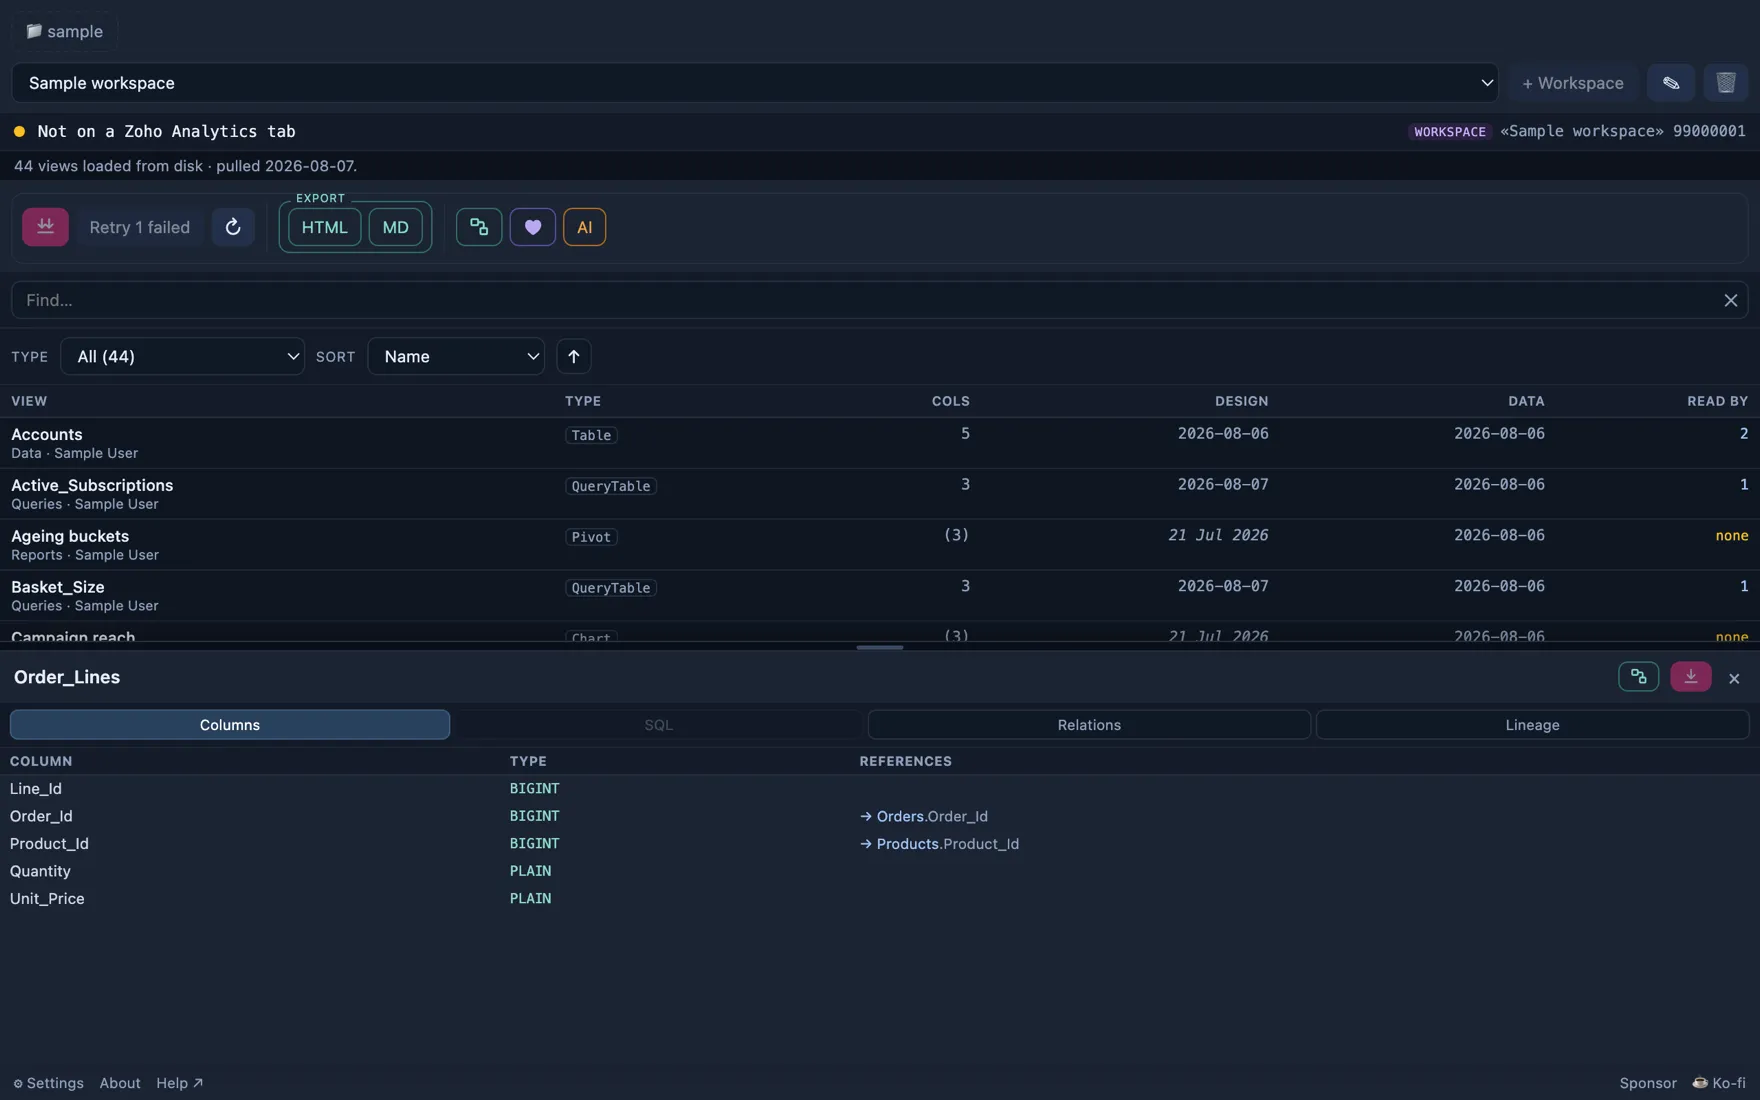
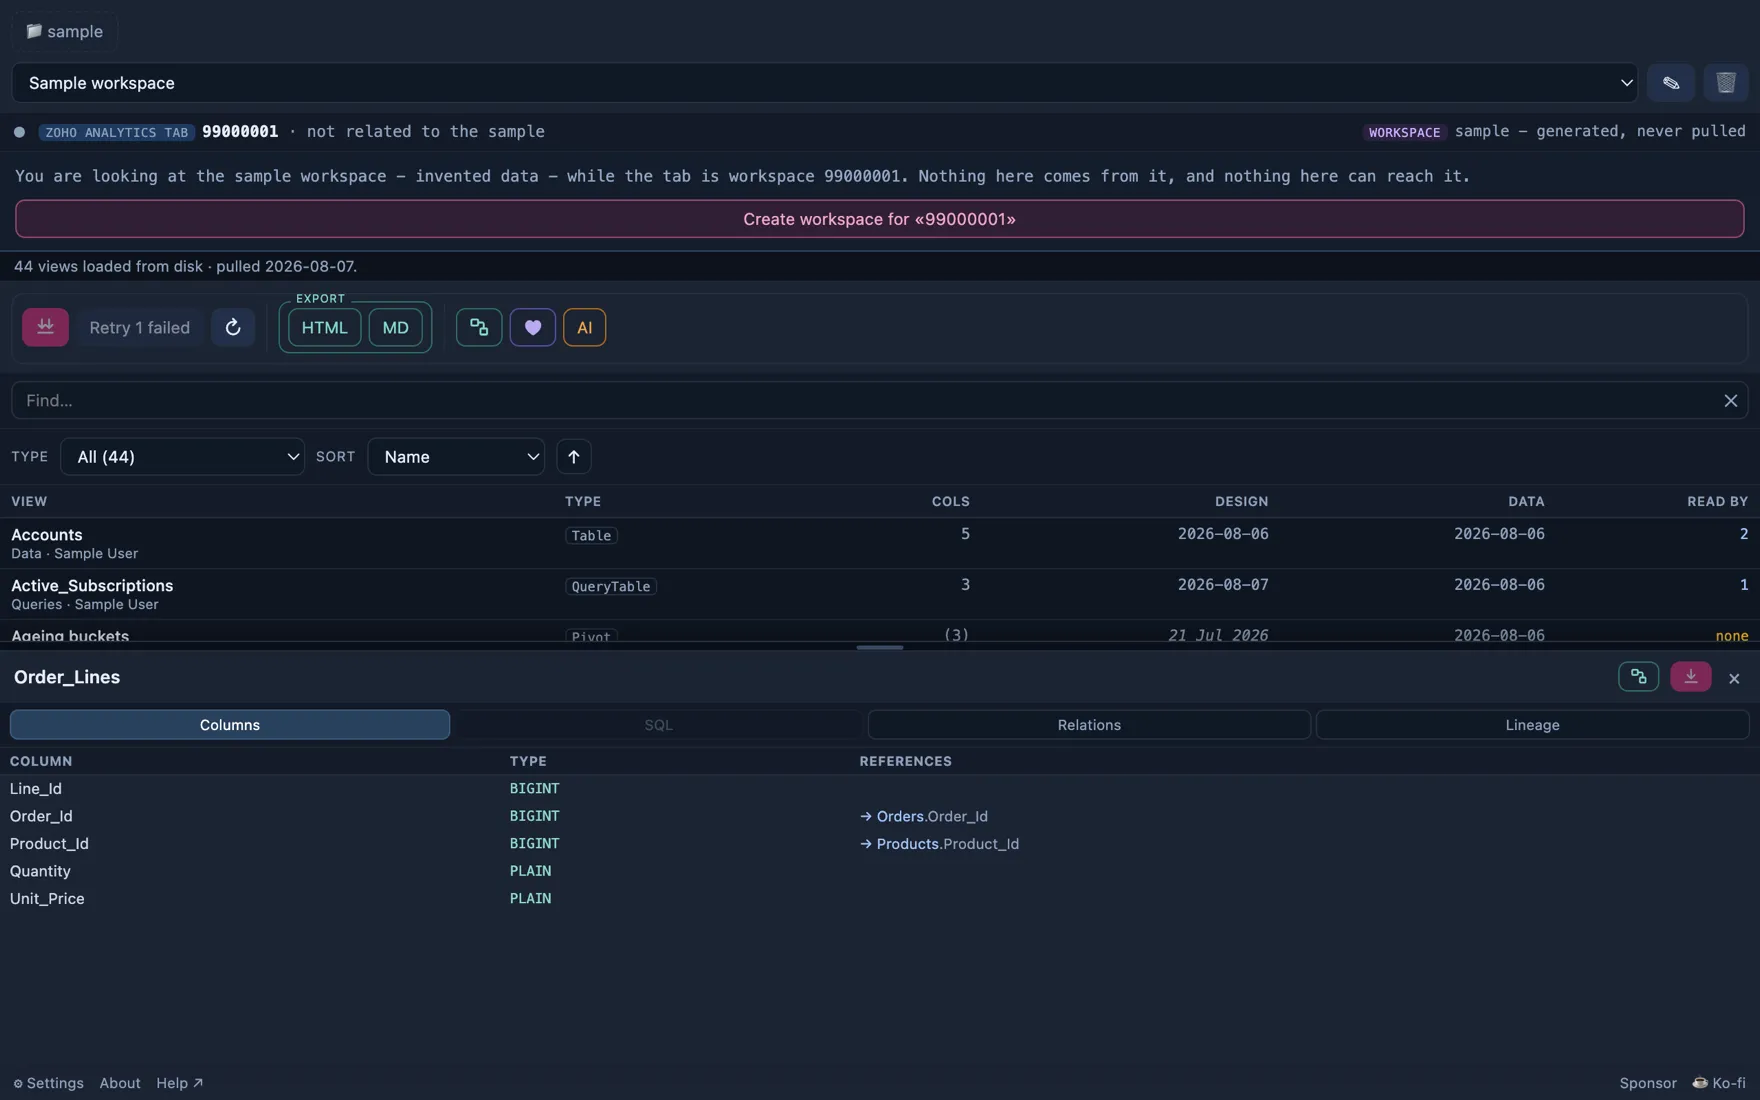
Ten more screens rendered, and the Analytics shots stop showing an error state
The coverage map said 11 of 25 features had a picture. Ten shots added - search,
health, the export dialog, the assistant, workflows and connections in CRM; the
health view, the export dialog, the assistant and lineage in Analytics - and
placed on /analytics and /ai in both languages, alongside the three already on
/crm.

Two things found by looking at what was rendered rather than trusting it.

The search shot toggled a #findscope that does not exist - the control is
#smode - so it searched names and published "No matches" under a caption about
searching code. It searches code now and finds 4 matches in 2 files.

And PANEL_CTX['analytics'] was { ok: false } against example.com, so every
Analytics panel image carried the amber "Not on a Zoho Analytics tab": the
off-platform state, rendered and shipped to the Store. It answers with the
fixture's own workspace id now, and the context bar says what it says in use.
The Store screenshots for Analytics should be re-uploaded at the next
submission.

diff --git a/site/it/analytics.html b/site/it/analytics.html
@@ -1,7 +1,7 @@
 <!doctype html>
 <html lang="it">
 <head>
-<!-- translated-from: site/analytics.html sha256:71e9022854590778 -->
+<!-- translated-from: site/analytics.html sha256:89132868f5c4612d -->
 <meta charset="utf-8">
 <meta name="viewport" content="width=device-width,initial-scale=1">
 <title>Zoost Analytics - guarda la forma di un workspace</title>
@@ -152,7 +152,13 @@
           scheda su cui sei: a quale cliente stai guardando risponde il browser, non la tua memoria.</p>
       </div>
     </div>
-  </div>
+  
+      <figure class="shot">
+        <img src="/img/analytics-panel.webp" width="1760" height="1100" loading="lazy" decoding="async"
+             alt="Il pannello Zoost accanto a Zoho Analytics: ogni vista del workspace con tipo, colonne e date, e sotto l'SQL della query table selezionata.">
+        <figcaption><b>Tutto il workspace in un elenco</b> - tipo, cartella, numero di colonne e le due date - con sotto l'SQL di quello che selezioni.</figcaption>
+      </figure>
+    </div>
 </section>
 
 <section id="whats-inside">
@@ -228,7 +234,19 @@
       </div>
 
     </div>
-  </div>
+  
+      <figure class="shot">
+        <img src="/img/analytics-columns.webp" width="1760" height="1100" loading="lazy" decoding="async"
+             alt="Le colonne di una tabella con i tipi di dato di Zoho, e le chiavi esterne che entrano e che escono.">
+        <figcaption><b>Una colonna alla volta.</b> Il tipo come lo dichiara Zoho Analytics, e le sue chiavi esterne nelle due direzioni: cosa punta questa colonna, e chi punta a lei.</figcaption>
+      </figure>
+    
+      <figure class="shot">
+        <img src="/img/analytics-er.webp" width="1760" height="1100" loading="lazy" decoding="async"
+             alt="Il diagramma ER del workspace: le tabelle come riquadri con le loro colonne, unite dalle relazioni.">
+        <figcaption><b>Il diagramma ER.</b> Ogni join scritto come lo scrive Zoho Analytics, non riscritto con parole mie - metti a fuoco una tabella e cammina da lì.</figcaption>
+      </figure>
+    </div>
 </section>
 
 <section id="what-it-does-not-do">
@@ -290,7 +308,13 @@
       come verificarlo: <a href="/it/nerd">la pagina nerd</a>.</p>
     <p class="note" style="margin-top:8px">Gira tutto dentro il tuo browser, con la sessione Zoho che hai già aperta. Nessun server, nessun account, nessuna telemetria. L'unica cosa che esce dalla tua macchina è
       quello che scegli di mandare a un provider AI, e mai le righe delle tue tabelle.</p>
-  </div>
+  
+      <figure class="shot">
+        <img src="/img/analytics-health.webp" width="1760" height="1100" loading="lazy" decoding="async"
+             alt="La vista health: tabelle di sistema, viste da cui non dipende più niente, e cosa la scansione non riesce a vedere.">
+        <figcaption><b>Quello da cui non dipende più niente</b> - e accanto al numero, cosa la scansione non vede: un link condiviso, un export schedulato, un consumatore via API. Candidati da guardare, mai un verdetto.</figcaption>
+      </figure>
+    </div>
 </section>
 
 </main>

diff --git a/site/analytics.html b/site/analytics.html
@@ -145,7 +145,13 @@
           you are on: which client you are looking at is answered by the browser, not by remembering.</p>
       </div>
     </div>
-  </div>
+  
+      <figure class="shot">
+        <img src="/img/analytics-panel.webp" width="1760" height="1100" loading="lazy" decoding="async"
+             alt="The Zoost panel beside Zoho Analytics: every view in the workspace with its type, columns and dates, and the SQL of the selected query table below.">
+        <figcaption><b>The whole workspace in one list</b> - type, folder, column count and both dates - with the SQL of whatever you select underneath.</figcaption>
+      </figure>
+    </div>
 </section>
 
 <section id="whats-inside">
@@ -217,7 +223,19 @@
       </div>
 
     </div>
-  </div>
+  
+      <figure class="shot">
+        <img src="/img/analytics-columns.webp" width="1760" height="1100" loading="lazy" decoding="async"
+             alt="A table's columns with their Zoho data types, and the foreign keys pointing in and out of it.">
+        <figcaption><b>A column at a time.</b> Its type as Zoho Analytics reports it, and its foreign keys in both directions: what this column points at, and what points at it.</figcaption>
+      </figure>
+    
+      <figure class="shot">
+        <img src="/img/analytics-er.webp" width="1760" height="1100" loading="lazy" decoding="async"
+             alt="The ER diagram of the workspace: tables as boxes with their columns, joined by their relations.">
+        <figcaption><b>The ER diagram.</b> Every join written the way Zoho Analytics writes it, not re-rendered in my words - focus one table and walk out from it.</figcaption>
+      </figure>
+    </div>
 </section>
 
 <section id="what-it-does-not-do">
@@ -278,7 +296,13 @@
     <p class="note" style="margin-top:8px">Everything runs in your browser, using the Zoho session you are already
       signed into. No server, no account, no telemetry. The only thing that ever leaves your machine is what you
       choose to send to an AI provider, and never the rows in your tables.</p>
-  </div>
+  
+      <figure class="shot">
+        <img src="/img/analytics-health.webp" width="1760" height="1100" loading="lazy" decoding="async"
+             alt="The health view: system tables, views nothing depends on, and what the scan cannot see.">
+        <figcaption><b>What nothing depends on any more</b> - and, next to the number, what the scan cannot see: a shared link, a scheduled export, an API consumer. Candidates to review, never a verdict.</figcaption>
+      </figure>
+    </div>
 </section>
 
 </main>

diff --git a/site/it/ai.html b/site/it/ai.html
@@ -1,7 +1,7 @@
 <!doctype html>
 <html lang="it">
 <head>
-<!-- translated-from: site/ai.html sha256:ac735c4bb41d1fc4 -->
+<!-- translated-from: site/ai.html sha256:23c70ffc8fcc5ce6 -->
 <meta charset="utf-8">
 <meta name="viewport" content="width=device-width,initial-scale=1">
 <title>AI e Zoost - cosa aggiunge, e quando non serve</title>
@@ -107,6 +107,12 @@
   <p>Un export è un file che esce dalla macchina. La decisione su cosa contiene si prende quindi una
     volta sola, con calma, in un posto dove la vedi tutta.</p>
 
+  <figure class="shot">
+    <img src="/img/crm-export.webp" width="1760" height="1100" loading="lazy" decoding="async"
+         alt="La finestra dell'export: una casella per sezione, con il codice sorgente Deluge segnalato come la parte sensibile.">
+    <figcaption><b>Cosa può uscire dalla macchina, deciso una volta.</b> Una riga per sezione, il sorgente segnalato come la parte sensibile, due preset, e la scelta viene ricordata.</figcaption>
+  </figure>
+
   <h2 id="la-strada-che-non-costa-niente">La strada che non costa niente</h2>
   <p>Porti il file Markdown all'assistente che già usi - Claude, ChatGPT, Gemini, Copilot - e fai lì la
     tua domanda. Nel browser o nella sua app da computer o da telefono: è un
@@ -161,6 +167,12 @@
     amministra. Chi ha la domanda spesso non è chi costruirebbe un export, aprirebbe una chat e
     scriverebbe il contesto: cliccherà una scheda, oppure chiederà a un collega. Un file sul disco
     quel problema non lo risolve; una scheda sì.</p>
+
+  <figure class="shot">
+    <img src="/img/crm-ai.webp" width="1760" height="1100" loading="lazy" decoding="async"
+         alt="L'assistente dentro il pannello Zoost, con la riga di contesto sotto il titolo che mostra quanto viene spedito a ogni messaggio.">
+    <figcaption><b>L'assistente, nel pannello.</b> Sotto il titolo c'è la dimensione dell'indice che viaggia con ogni messaggio, in caratteri e token: la manopola e il suo costo nello stesso posto.</figcaption>
+  </figure>
 
   <h2 id="quando-serve-una-api-key">Quando serve una API key</h2>
   <p>Questa è la versione onesta, ed è più stretta di come di solito viene raccontata questa categoria

diff --git a/site/ai.html b/site/ai.html
@@ -104,6 +104,12 @@
   <p>An export is a file that leaves the machine. The decision about what is in it is therefore made
     once, deliberately, in a place where you can see the whole of it.</p>
 
+  <figure class="shot">
+    <img src="/img/crm-export.webp" width="1760" height="1100" loading="lazy" decoding="async"
+         alt="The export dialog: a checkbox per section, with the Deluge source code marked as the sensitive one.">
+    <figcaption><b>What may leave the machine, decided once.</b> A line per section, source code marked as the sensitive one, two presets, and the choice remembered.</figcaption>
+  </figure>
+
   <h2 id="the-route-that-costs-nothing">The route that costs nothing</h2>
   <p>Take the Markdown file to whichever assistant you already use - Claude, ChatGPT, Gemini,
     Copilot - and ask your question there. In the browser or in its desktop or mobile
@@ -157,6 +163,12 @@
     administers it. The person with the question is often not the person who would assemble an
     export, open a chat and phrase the context - they will click a tab, or they will ask a colleague.
     A file on disk does not solve that; a tab does.</p>
+
+  <figure class="shot">
+    <img src="/img/crm-ai.webp" width="1760" height="1100" loading="lazy" decoding="async"
+         alt="The assistant inside the Zoost panel, with the context line under its title showing the size of what is sent with every message.">
+    <figcaption><b>The assistant, in the panel.</b> Under the title is the size of the index that travels with every message, in characters and tokens - the knob and its cost in the same place.</figcaption>
+  </figure>
 
   <h2 id="when-it-is-worth-a-key">When it is worth a key</h2>
   <p>Here is the honest version, which is narrower than the way this kind of feature usually gets

diff --git a/tools/shots.py b/tools/shots.py
@@ -208,7 +208,11 @@ PANEL_CTX = {
             "{ ok: true, org: '1234567890', instance: 'sampleorg', origin: 'https://crm.zoho.eu', zuid: '0' }"),
     # No tab for the Analytics shots: a sample workspace needs none, the overlay is suppressed for
     # it, and the picture is then of the panel rather than of the bar explaining a discrepancy.
-    "analytics": ("https://example.com/", "{ ok: false }"),
+    "analytics": ("https://analytics.zoho.eu/workspace/99000001",
+                  "{ ok: true, workspace: '99000001', origin: 'https://analytics.zoho.eu' }"),
+    # It used to be `{ ok: false }` against example.com, so every Analytics panel shot carried an
+    # amber «Not on a Zoho Analytics tab» - the off-platform state, photographed and published to the
+    # Store. The workspace id is the fixture's own, so the bar now says what it says in use.
 }
 
 PANELS = [
@@ -249,6 +253,54 @@ PANELS = [
         setTimeout(() => {
           const el = [...document.querySelectorAll('#list tbody tr')].find((e) => /Order_Lines/.test(e.textContent));
           if (el) el.click();
+        }, 1400);
+    """),
+
+    # --- the screens the site describes and had no picture of -----------------------------------
+    # «Copertura visiva totale delle feature» - every capability the pages claim should be visible
+    # somewhere, not only described. tools/coverage.py holds the map and reports what is missing.
+    ("crm-search", "crm", "crm/sampleorg-1234567890", """
+        // Full-text search across every function at once, which Zoho CRM has no way of doing. The
+        // first version of this shot searched *names* - `#smode` is the toggle, not a select - and
+        // rendered «No matches» under a caption about searching code. A screenshot that advertises
+        // a feature by showing it finding nothing is worse than no screenshot.
+        document.getElementById('smode').click();          // in: names -> in: code
+        const f = document.getElementById('find');
+        f.value = 'planShipment'; f.dispatchEvent(new Event('input'));
+    """),
+    ("crm-health", "crm", "crm/sampleorg-1234567890", """
+        document.getElementById('health').click();
+    """),
+    ("crm-export", "crm", "crm/sampleorg-1234567890", """
+        document.getElementById('export').click();   // the dialog that decides what may leave
+    """),
+    ("crm-ai", "crm", "crm/sampleorg-1234567890", """
+        document.getElementById('askai').click();
+    """),
+    ("crm-workflows", "crm", "crm/sampleorg-1234567890", """
+        const seg = [...document.querySelectorAll('.seg')].find((s) => /Workflows/.test(s.textContent));
+        if (seg) seg.click();
+        setTimeout(() => { const el = document.querySelector('#tree .f'); if (el) el.click(); }, 900);
+    """),
+    ("crm-connections", "crm", "crm/sampleorg-1234567890", """
+        const seg = [...document.querySelectorAll('.seg')].find((s) => /Connections/.test(s.textContent));
+        if (seg) seg.click();
+        setTimeout(() => { const el = document.querySelector('#tree .f'); if (el) el.click(); }, 900);
+    """),
+    ("analytics-health", "analytics", "analytics/sample-workspace", """
+        setTimeout(() => document.getElementById('health').click(), 1400);
+    """),
+    ("analytics-export", "analytics", "analytics/sample-workspace", """
+        setTimeout(() => document.getElementById('export').click(), 1400);
+    """),
+    ("analytics-ai", "analytics", "analytics/sample-workspace", """
+        setTimeout(() => document.getElementById('askai').click(), 1400);
+    """),
+    ("analytics-lineage", "analytics", "analytics/sample-workspace", """
+        setTimeout(() => {
+          const el = [...document.querySelectorAll('#list tbody tr')].find((e) => /Revenue_By_Region/.test(e.textContent));
+          if (el) el.click();
+          setTimeout(() => { const t = [...document.querySelectorAll('.dtab')].find((x) => /Used|Lineage|Depend/i.test(x.textContent)); if (t) t.click(); }, 700);
         }, 1400);
     """),
 ]

diff --git a/CLAUDE.md b/CLAUDE.md
@@ -1156,6 +1156,24 @@ empty reference graph and the panel said «no known usage (orphan candidate)» a
 plainly calls four things. A test now holds every fixture function in a real namespace, and holds the
 namespace and the category apart - the mismatch this file has already recorded twice.
 
+**The site shows the product, and `tools/siteimg.py` renders those images from the same generator.**
+Most readers do not read - they look at a picture and decide in two seconds whether a feature is for
+them, which is the one thing a well-written page cannot do for them. Same renderers as the Store
+shots, so a control that does not exist cannot appear in one; rendered at **2x** (`shots.SCALE`) and
+published as **WebP at 1760 wide**, twice the widest the content column reaches. Measured on the
+busiest shot: 115 KB as the 1x PNG, 284 KB as a 1760 PNG, **45-90 KB as WebP** - the format does the
+work, not the resizing. Lazy-loaded, each carrying its own width and height so nothing below moves.
+
+**A click script that agrees with nothing renders the default state, silently.** The full-text search
+shot toggled a `#findscope` that does not exist - the control is `#smode` - so it searched *names*
+and published «No matches» under a caption about searching code. A screenshot that advertises a
+feature by showing it finding nothing is worse than none. Look at every new shot before trusting it.
+
+**And that is how the Analytics Store screenshots were found to be wrong.** `PANEL_CTX['analytics']`
+was `{ ok: false }` against `example.com`, so every Analytics panel image carried the amber «Not on a
+Zoho Analytics tab» - the off-platform state, photographed and published. It answers with the
+fixture's own workspace id now, and the bar says what it says in use.
+
 **Screenshots are rendered, never captured: `python3 tools/shots.py`.** Headless Chrome writes
 exactly what the Store wants - 1280 x 800, `8-bit/color RGB`, no alpha - so nothing is converted
 afterwards and nothing can quietly re-introduce an alpha channel. The pages are the shipped ones byte
